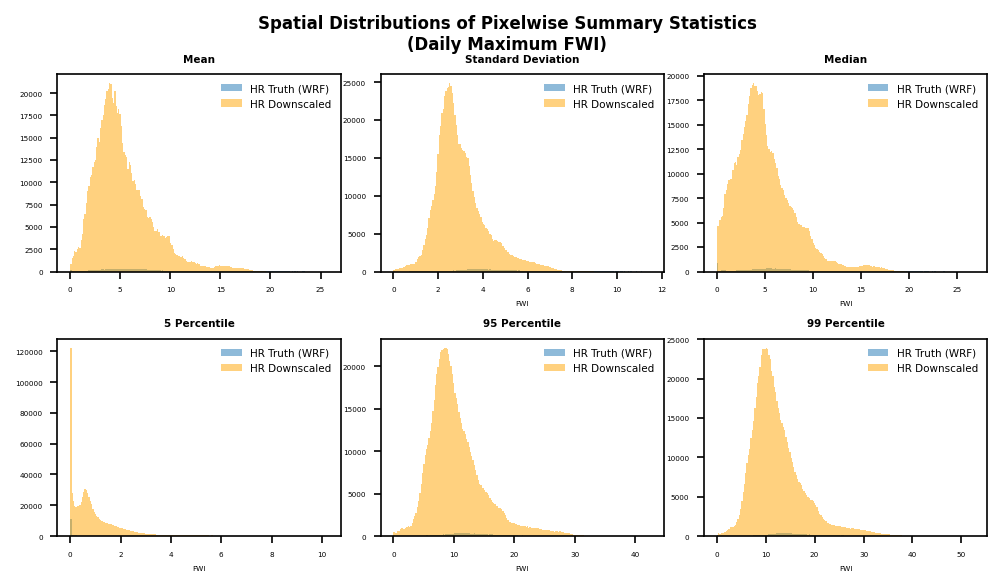
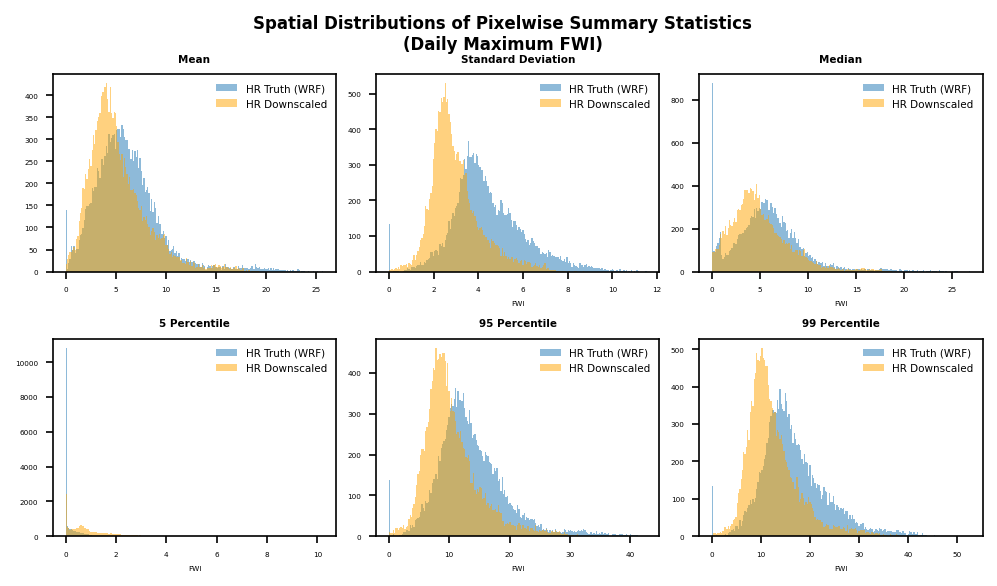
feat: GPU selection

diff --git a/mlanalysis/__main__.py b/mlanalysis/__main__.py
@@ -1,5 +1,6 @@
 import time
 import gc
+import subprocess
 
 from .experiment import Experiment
 from .utils import set_seed
@@ -23,8 +24,10 @@ start_time = time.time()
 experiment = Experiment()
 experiment.summary()
 
-# Set random seed for reproducibility
+# Set random seed for reproducibility & select visible GPU
 set_seed(experiment.seed)
+if experiment.which_gpu is not None:
+    subprocess.run(["export", f"CUDA_VISIBLE_DEVICES={experiment.which_gpu}"], shell=True)
 
 N = 50
 loc = (84, 56)

diff --git a/mlanalysis/figures.py b/mlanalysis/figures.py
@@ -378,6 +378,7 @@ def plot_pixelwise_statistics_histogram(experiment, var, N, daily_max=False):
         '95 Percentile': (p95_field_sr, p95_field_gt),
         '99 Percentile': (p99_field_sr, p99_field_gt)
     }
+    stats = {statname: (np.nanmean(fields[0], axis=0), fields[1]) for statname, fields in stats.items()}
 
     # Plot statistics
     fig, ax = plt.subplots(nrows=2, ncols=3, figsize=(8, 4), dpi=200)
